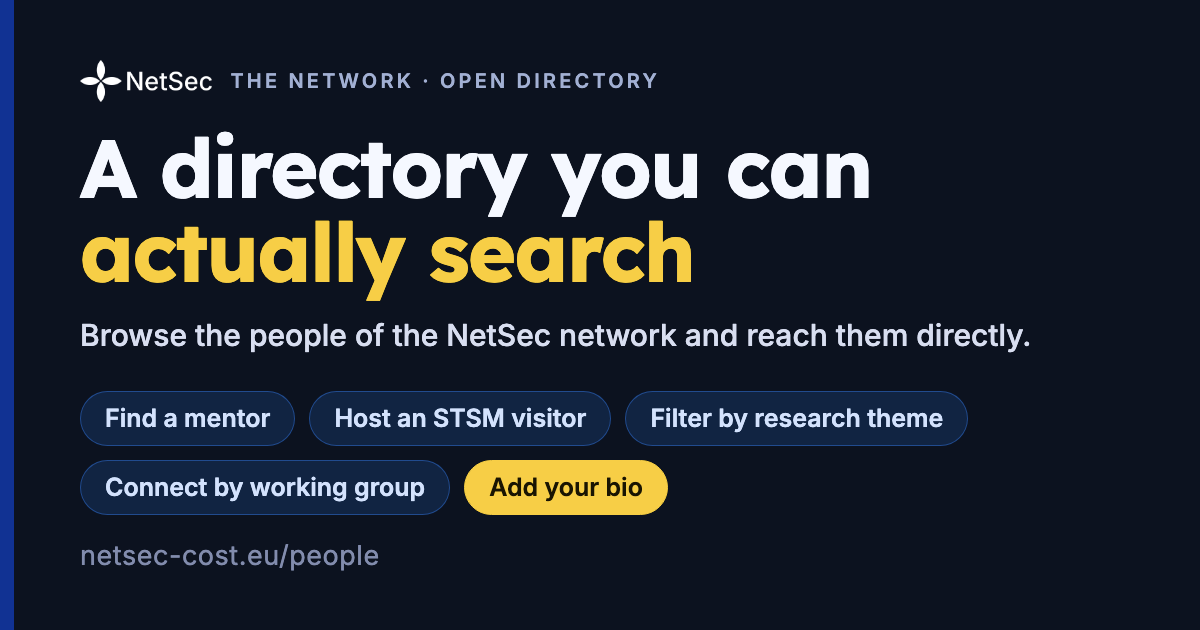
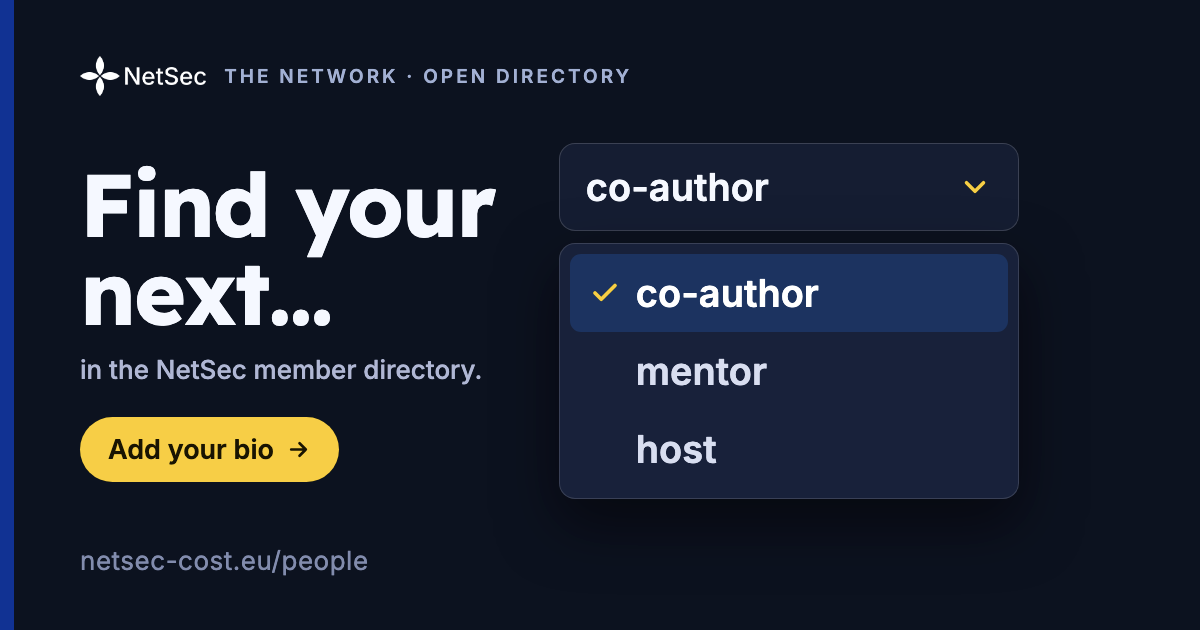
design(social): directory OG card — "Find your next…" faux-dropdown
Swap the directory card design to a "Find your next…" headline beside a faux
<select> (co-author / mentor / host, the first chosen) with a gold "Add your
bio" CTA. Shows what the directory is for instead of citing figures. Regenerated
og-image-people.png and updated the CHANGELOG wording.

diff --git a/scripts/build-directory-og.py b/scripts/build-directory-og.py
@@ -4,8 +4,9 @@
 The card that ships on /people.html is the Open Graph image a shared directory
 link unfurls as. The original was a hand-designed PNG (#495); this regenerates
 it from an HTML template so it stays maintainable, and drops the hard member /
-country counts in favour of action-verb features (find a mentor, host an STSM,
-filter by theme) that do not go stale as the directory grows.
+country counts. The design is a "Find your next…" headline beside a faux
+dropdown (co-author / mentor / host) plus an "Add your bio" call to action, so
+it shows what the directory does instead of citing figures that go stale.
 
 Reuses the headless-Chrome + CDP capture from build-og-cards.py for an exact
 1200x630 PNG on macOS and Linux alike.
@@ -38,21 +39,32 @@ CARD_HTML = """<!DOCTYPE html>
   html, body { width:1200px; height:630px; }
   body { font-family:'Inter', sans-serif; background:#0b1220; color:#f4f8ff; position:relative; overflow:hidden; }
   .accent { position:absolute; left:0; top:0; bottom:0; width:14px; background:#003399; }
-  .frame { position:absolute; inset:0; padding:60px 80px 58px; display:flex; flex-direction:column; }
+  .frame { position:absolute; inset:0; padding:56px 80px 54px; display:flex; flex-direction:column; }
   .top { display:flex; align-items:center; gap:18px; }
-  .top img { height:42px; }
-  .top .eyebrow { font-size:20px; letter-spacing:.16em; color:#9fb0d6; font-weight:600; }
-  .body { flex:1; min-height:0; display:flex; flex-direction:column; justify-content:center; }
-  .headline { font-family:'Lexend', sans-serif; font-weight:700; font-size:82px; line-height:1.02;
+  .top img { height:40px; }
+  .top .eyebrow { font-size:19px; letter-spacing:.16em; color:#9fb0d6; font-weight:600; }
+  .main { flex:1; min-height:0; display:flex; align-items:center; gap:64px; }
+  .left { flex:0 0 auto; max-width:560px; }
+  .headline { font-family:'Lexend', sans-serif; font-weight:700; font-size:88px; line-height:1.0;
     letter-spacing:-.02em; color:#f4f8ff; }
-  .headline .hl { color:#ffcc00; }
-  .sub { margin-top:22px; font-size:30px; line-height:1.3; color:#d7def2; font-weight:500; max-width:1010px; }
-  .pills { margin-top:36px; display:flex; flex-wrap:wrap; gap:14px; }
-  .pill { font-size:25px; font-weight:600; line-height:1; padding:14px 24px; border-radius:999px;
-    background:rgba(10,132,255,.16); border:1px solid rgba(10,132,255,.42); color:#cfe2ff; white-space:nowrap; }
-  .pill.cta { background:#ffcc00; border-color:#ffcc00; color:#1a1400; }
+  .sub { margin-top:18px; font-size:26px; color:#aeb7d6; font-weight:500; }
+  .cta { display:inline-flex; align-items:center; gap:12px; margin-top:32px;
+    background:#ffcc00; color:#1a1400; font-size:27px; font-weight:700; padding:16px 28px; border-radius:999px; }
+  .cta svg { width:25px; height:25px; }
+  .combo { flex:1; max-width:460px; }
+  .select { display:flex; align-items:center; justify-content:space-between; gap:16px;
+    background:#131d33; border:1.5px solid rgba(255,255,255,.16); border-radius:16px; padding:20px 26px; }
+  .select .val { font-size:38px; font-weight:600; color:#f4f8ff; }
+  .select svg { width:34px; height:34px; color:#ffcc00; flex:0 0 auto; }
+  .menu { margin-top:12px; background:#16213c; border:1.5px solid rgba(255,255,255,.14); border-radius:16px;
+    padding:10px; box-shadow:0 24px 60px rgba(0,0,0,.5); }
+  .opt { display:flex; align-items:center; gap:16px; padding:16px 20px; border-radius:11px;
+    font-size:38px; font-weight:600; color:#d7def2; }
+  .opt.sel { background:rgba(10,132,255,.20); color:#fff; }
+  .opt .tick { width:30px; height:30px; color:transparent; flex:0 0 auto; }
+  .opt.sel .tick { color:#ffcc00; }
   .foot { display:flex; align-items:center; }
-  .foot .url { font-size:27px; color:#7f8cb0; letter-spacing:.02em; }
+  .foot .url { font-size:26px; color:#7f8cb0; letter-spacing:.02em; }
 </style></head>
 <body>
   <div class="accent"></div>
@@ -61,15 +73,23 @@ CARD_HTML = """<!DOCTYPE html>
       <img src="/assets/images/brand/netsec-lockup-white.png" alt="">
       <span class="eyebrow">THE NETWORK · OPEN DIRECTORY</span>
     </div>
-    <div class="body">
-      <div class="headline">A directory you can<br><span class="hl">actually search</span></div>
-      <div class="sub">Browse the people of the NetSec network and reach them directly.</div>
-      <div class="pills">
-        <span class="pill">Find a mentor</span>
-        <span class="pill">Host an STSM visitor</span>
-        <span class="pill">Filter by research theme</span>
-        <span class="pill">Connect by working group</span>
-        <span class="pill cta">Add your bio</span>
+    <div class="main">
+      <div class="left">
+        <div class="headline">Find your<br>next&hellip;</div>
+        <div class="sub">in the NetSec member directory.</div>
+        <span class="cta">Add your bio
+          <svg viewBox="0 0 24 24" fill="none" stroke="currentColor" stroke-width="2.6" stroke-linecap="round" stroke-linejoin="round"><path d="M5 12h14M13 6l6 6-6 6"/></svg>
+        </span>
+      </div>
+      <div class="combo">
+        <div class="select"><span class="val">co-author</span>
+          <svg viewBox="0 0 24 24" fill="none" stroke="currentColor" stroke-width="2.5" stroke-linecap="round" stroke-linejoin="round"><path d="M6 9l6 6 6-6"/></svg>
+        </div>
+        <div class="menu">
+          <div class="opt sel"><svg class="tick" viewBox="0 0 24 24" fill="none" stroke="currentColor" stroke-width="3" stroke-linecap="round" stroke-linejoin="round"><path d="M20 6L9 17l-5-5"/></svg>co-author</div>
+          <div class="opt"><svg class="tick" viewBox="0 0 24 24"></svg>mentor</div>
+          <div class="opt"><svg class="tick" viewBox="0 0 24 24"></svg>host</div>
+        </div>
       </div>
     </div>
     <div class="foot"><span class="url">netsec-cost.eu/people</span></div>

diff --git a/CHANGELOG.md b/CHANGELOG.md
@@ -131,7 +131,7 @@ maintainer-facing audience.
 - Per-member Open Graph card images for the directory profile pages, so a shared `/people/<slug>` link unfurls as that person rather than the generic site card. The card carries a rounded headshot (an initials tile when no photo is on file), the member's name and role, their working-group pills (with a lead or co-lead marker), a mentor or mentee pill, an STSM-hosting pill, and the country flag, all on NetSec branding. A new `scripts/build-og-cards.py` renders a 1200×630 PNG per member from `data/bios.json`, `scripts/build-profile-pages.py` points each profile's `og:image` and `twitter:image` at it with a fallback to the generic card, and the weekly bios sync regenerates only the cards whose inputs changed. Country flags are bundled locally, and a content-manifest drift gate keeps the set in step with the directory.
 
 #### Changed
-- The directory's social card (`/people.html` Open Graph image) is refreshed around its features rather than a member count: it now reads "A directory you can actually search" with action-verb chips (find a mentor, host an STSM visitor, filter by research theme, connect by working group, add your bio), so it does not go stale as the directory grows. It is now generated from an HTML template by `scripts/build-directory-og.py` rather than a hand-made file.
+- The directory's social card (`/people.html` Open Graph image) is refreshed around what the directory does rather than a member count: a "Find your next…" headline beside a faux dropdown (co-author / mentor / host) and an "Add your bio" call to action, so it does not go stale as the directory grows. It is now generated from an HTML template by `scripts/build-directory-og.py` rather than a hand-made file.
 - The XML sitemap now lists every member profile page (`/people/<slug>`, all three locales with hreflang alternates), so search engines find them from the sitemap rather than only by crawling. `sitemap.xml` is now generated by `scripts/build-sitemap.py` from the top-level page list plus the committed profile pages, with a CI drift gate, and the weekly bios sync regenerates it so a new member is listed automatically. The human-readable `/sitemap.html` is unchanged.
 
 #### Fixed
